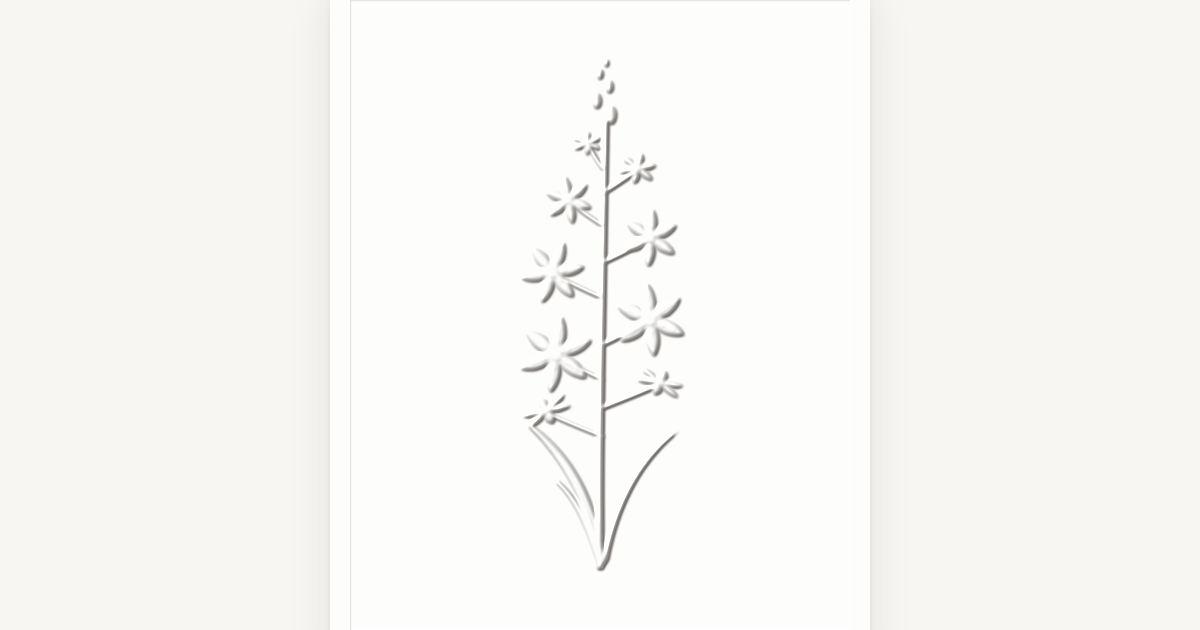
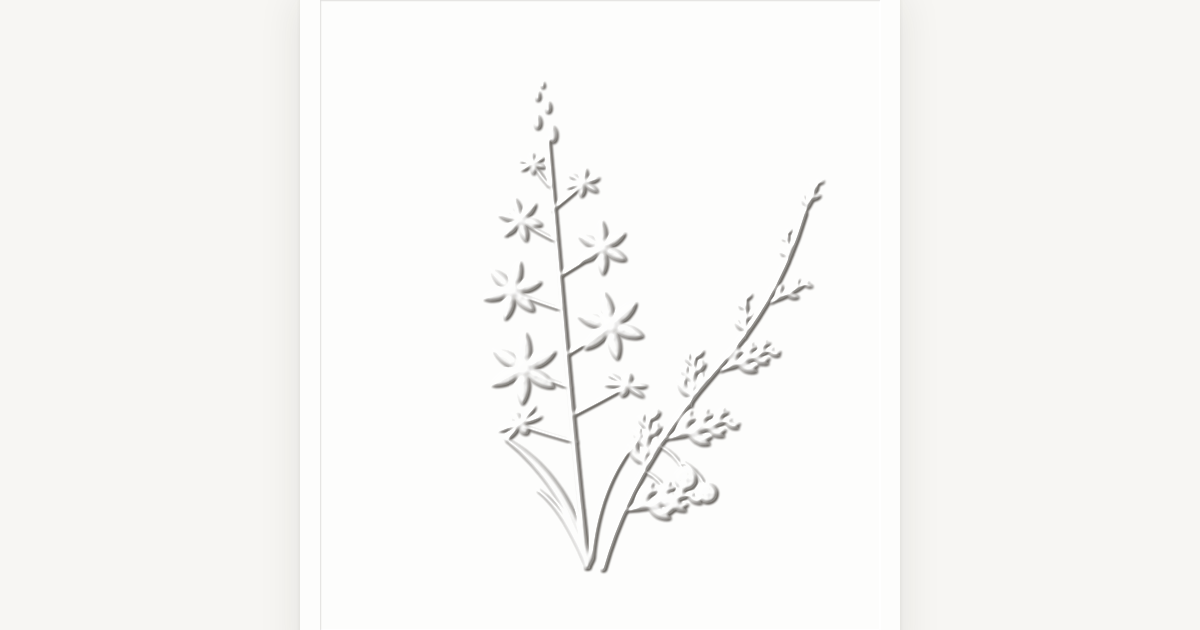
청첩장 업데이트: 오프닝 문구, 터치로 건너뛰기, D-day 제거, 아스포델+노송나무 엠블럼
Claude-Session: https://claude.ai/code/session_01Ecuc82NE4iMCAaktfMKLVU

Changed region(s): [[0.4008, 0.1206, 0.6783, 0.9048], [0.6783, 0.3016, 0.7092, 0.3317]]

diff --git a/index.html b/index.html
@@ -57,10 +57,7 @@
   .caption .ko{font-family:var(--ko);font-weight:400;font-size:14.5px;letter-spacing:.12em;top:22px;color:var(--ink)}
   .caption.out span{opacity:0;transform:translateY(4px)}
 
-  #skip{position:fixed;right:18px;bottom:calc(18px + env(safe-area-inset-bottom));z-index:5;
-    font-family:var(--en);font-size:11px;letter-spacing:.35em;color:var(--ink-soft);
-    background:none;border:0;padding:10px 6px 10px 12px;cursor:pointer;transition:opacity .6s}
-  #skip.hide{opacity:0;pointer-events:none}
+  #intro{cursor:pointer;-webkit-user-select:none;user-select:none}
 
   /* ---------- 카드 장면 ---------- */
   #scene{position:fixed;inset:0;z-index:3;overflow:hidden;
@@ -101,7 +98,7 @@
   .shown .content > *:nth-child(10){transition-delay:1.9s}
 
   .eyebrow{font-family:var(--en);font-size:11.5px;letter-spacing:.3em;padding-left:.3em;color:var(--ink);white-space:nowrap}
-  .asphodel{width:auto;height:min(34dvh,250px);margin:3dvh 0 .6dvh}
+  .asphodel{width:auto;height:min(34dvh,250px);max-width:100%;margin:3dvh 0 .6dvh}
   .flower-note{font-family:var(--en-it);font-style:italic;font-size:12px;letter-spacing:.06em;color:var(--ink-soft)}
   .flower-note b{font-family:var(--ko);font-style:normal;font-weight:300;font-size:10.5px;letter-spacing:.14em;margin-left:6px}
   .hair{width:36px;height:1px;background:#d8ccb4;margin:3.4dvh 0}   /* 포인트: 아이보리 골드 */
@@ -309,7 +306,6 @@
     </div>
   </div>
 </div>
-<button id="skip" type="button" aria-label="인트로 건너뛰기">SKIP</button>
 
 <!-- ===== 카드 장면 ===== -->
 <div id="scene" class="grain">
@@ -321,7 +317,7 @@
       <p class="eyebrow">THE WEDDING CELEBRATION</p>
 
       <!-- 아스포델 블라인드 엠보싱 (잉크 없이 종이만 눌러 올린 느낌) -->
-      <svg class="asphodel" viewBox="0 0 200 330" aria-label="아스포델 엠보싱">
+      <svg class="asphodel" viewBox="0 0 200 330" aria-label="아스포델과 노송나무 엠보싱">
         <defs>
           <!-- 조각식(스컬프티드) 엠보싱: 높이맵 → 실제 조명 계산 → 밝은 면/그늘만 종이에 얹음 -->
           <filter id="emboss" x="-8%" y="-6%" width="116%" height="112%" color-interpolation-filters="sRGB">
@@ -384,10 +380,6 @@
     <p class="day-sub">JW 메리어트 동대문 스퀘어 서울</p>
     <p class="cal-head">FEBRUARY 2027</p>
     <div class="cal" id="cal"></div>
-    <div class="dday">
-      <p class="dday-num" id="ddayNum"></p>
-      <p class="dday-text" id="ddayText"></p>
-    </div>
     <a class="btn" id="gcal" target="_blank" rel="noopener">캘린더에 추가하기</a>
   </section>
 
@@ -527,16 +519,16 @@
         ⚠ 임시 스케치입니다. 직접 찍은 사진을 따라 그려 이 d 값만 교체하세요.
      ---------------------------------------------------------------- */
   const SHAPES = [
-    { en:'ITAEWON', ko:'이태원, 써스티몽크 언덕',
+    { en:'ITAEWON', ko:'이태원에서 만남을 시작해',
       /* 가로등 · 은행나무 · 수풀 언덕 · 언덕 위 건물 · 옆 건물 루프탑 */
       d:'M20 230 L39.4 230 L39.4 150 C44 146 52 146 58 148 L58 150.5 C52 149.5 45 150.5 40.6 153 L40.6 230 L95 230 L95 190 C84 188 80 170 84 150 C86 128 92 110 96 100 C100 110 106 128 108 150 C112 170 108 188 97 190 L97 230 L106 230 C108 214 114 204 124 202 C126 190 136 184 146 187 C150 176 160 170 170 173 L170 120 L178 110 L232 104 L246 104 L246 168 C252 160 262 158 268 164 C272 154 284 152 290 160 L290 138 L324 138 L324 130 L328 130 L328 176 C332 190 334 206 336 218 L340 230' },
     { en:'SUKI', ko:'추운 겨울날, 수키 합류',
       /* 소파 팔걸이 위에 엎드린 수키 — 귀, 기울인 머리, 앞으로 늘어뜨린 두 앞발 */
       d:'M20 230 L300 230 C296 212 262 194 212 186 C211 198 212 214 210 222 C206 230 196 230 192 224 C189 212 189 192 190 176 C184 174 178 173 172 172 C173 182 172 192 168 199 C162 205 150 203 147 195 C142 184 139 166 137 152 C114 147 84 148 60 160 C44 170 38 200 38 230 C38 200 44 170 60 160 C58 146 68 128 86 120 C104 113 130 104 148 95 C152 88 157 79 163 71 L176 41 L189 67 C198 65 213 66 222 71 L246 61 C243 74 239 84 235 92 C238 104 237 118 229 131 C222 140 216 150 214 162 C213 172 212 180 212 186 C262 194 296 212 300 230 L340 230' },
-    { en:'CAMPUS', ko:'6 YEARS',
+    { en:'CAMPUS', ko:'6년간의 캠퍼스 생활',
       /* 계단식 테라스 · 새 모양 가로등 · 삼각탑(정점의 알바트로스) · 안쪽 면 · 기둥과 역원뿔 */
       d:'M20 230 L40 230 L40 206 L59.4 206 L59.4 152 C55 148 51 149 48 151 C52 146 57 146 60 149 C63 146 68 146 72 151 C69 149 65 148 60.6 152 L60.6 206 L70 206 L70 212 L92 212 L92 218 L110 218 L110 224 L128 224 L128 230 L142 230 L177.6 46 L178.6 40 L175 38.5 L178.8 38 L180 30 L181.2 38 L185 38.5 L181.4 40 L182.4 46 L218 230 L202 230 L180 80 L158 230 L172 230 L172 226 L180 226 L174 209 L179 209 L179 92 L181 92 L181 209 L186 209 L180 226 L188 226 L188 230 L232 230 L232 224 L250 224 L250 218 L268 218 L268 212 L290 212 L290 206 L299.4 206 L299.4 152 C295 148 291 149 288 151 C292 146 297 146 300 149 C303 146 308 146 312 151 C309 149 305 148 300.6 152 L300.6 206 L320 206 L320 230 L340 230' },
-    { en:'DONGDAEMUN', ko:'흥인지문, 그리고 우리의 날',
+    { en:'DONGDAEMUN', ko:'그리고 부부가 됩니다',
       d:'M20 230 L76 230 L76 184 L104 184 L104 170 C88 168 72 164 58 156 C80 156 100 150 116 144 L126 144 L126 132 C112 130 100 126 90 120 C120 118 150 106 180 102 C210 106 240 118 270 120 C260 126 248 130 234 132 L234 144 L244 144 C260 150 280 156 302 156 C288 164 272 168 256 170 L256 184 L284 184 L284 230 L202 230 L202 212 C202 200 192 194 180 194 C168 194 158 200 158 212 L158 230 L340 230' }
   ];
   const ARCH = { x:180, y:214 };   // 흥인지문 홍예(아치) 안쪽 — 여기로 들어갑니다
@@ -675,7 +667,7 @@
   const $ = id => document.getElementById(id);
   const intro = $('intro'), stage = $('stage'), scene = $('scene'), card = $('card');
   const capEl = $('caption'), capEn = $('cap-en'), capKo = $('cap-ko');
-  const dayEl = $('day'), dateEl = $('date'), counter = $('counter'), skipBtn = $('skip');
+  const dayEl = $('day'), dateEl = $('date'), counter = $('counter'), skipBtn = null;
 
   function setDay(n){ dayEl.textContent = 'DAY ' + Math.round(n).toLocaleString('en-US'); }
   async function swapCaption(i){
@@ -704,7 +696,6 @@
   function sizeSheet(){}   /* 카드 종이는 이제 CSS로 처리 */
 
   function showCard(){
-    skipBtn.classList.add('hide');
     intro.style.visibility = 'hidden';
     setClip(Math.hypot(innerWidth, innerHeight) + 50, innerWidth/2, innerHeight/2);
     scene.style.clipPath = scene.style.webkitClipPath = 'none';
@@ -718,7 +709,6 @@
     card.classList.remove('shown'); scene.classList.remove('scroll'); scene.scrollTop = 0;
     intro.style.visibility = 'visible'; stage.style.transform = ''; stage.style.opacity = 1;
     setClip(0, innerWidth/2, innerHeight/2);
-    skipBtn.classList.remove('hide');
     capEn.textContent = SHAPES[0].en; capKo.textContent = SHAPES[0].ko; capEl.classList.add('out');
     counter.style.opacity = 0; setDay(1); dateEl.textContent = '2017. 01. 22'; dateEl.style.transition = 'none'; dateEl.style.opacity = 1;
     WASH.forEach(w => { w.style.opacity = 0; w.removeAttribute('mask'); }); stopSnow(); sukiFace.style.opacity = 0;
@@ -779,7 +769,8 @@
     showCard();
   }
 
-  skipBtn.addEventListener('click', () => { run++; stopSnow(); showCard(); });
+  // 오프닝 그림을 터치하면 바로 본문으로
+  intro.addEventListener('click', () => { if (intro.style.visibility === 'hidden') return; run++; stopSnow(); showCard(); });
   $('replay').addEventListener('click', play);
   addEventListener('resize', sizeSheet);
 
@@ -824,7 +815,50 @@
       h += `<ellipse cx="${x}" cy="${y}" rx="${r*.78}" ry="${r*1.4}" fill-opacity=".7"/>`;
       h += `<path d="M${x} ${y + r*1.1} L${x} ${y - r*1.1}" stroke="#000" stroke-width=".7"/>`;
     });
-    g.innerHTML = h;
+    /* 노송나무(편백) — 신랑 탄생화(12월 31일). 납작하게 부채꼴로 갈라지는 비늘잎 + 동그란 솔방울 */
+    function hinoki(){
+      let o = '';
+      const LOW = .78;
+      o += '<path d="M150 326 C160 290 182 250 214 214 C236 190 252 162 262 128" fill="none" stroke="#000" stroke-width="2.4" stroke-linecap="round"/>';
+      const lobe = (x, y, ang, len, w) => {
+        const ex = x + Math.cos(ang) * len, ey = y + Math.sin(ang) * len;
+        const mx = (x + ex) / 2, my = (y + ey) / 2, nx = -Math.sin(ang) * w, ny = Math.cos(ang) * w;
+        return { ex, ey, d: `M${x.toFixed(1)} ${y.toFixed(1)} Q${(mx + nx).toFixed(1)} ${(my + ny).toFixed(1)} ${ex.toFixed(1)} ${ey.toFixed(1)} Q${(mx - nx).toFixed(1)} ${(my - ny).toFixed(1)} ${x.toFixed(1)} ${y.toFixed(1)} Z` };
+      };
+      // 납작한 잎줄기: 중심축 + 어긋나게 뻗는 납작한 곁가지(끝이 둥근 비늘잎 띠)
+      const strip = (x, y, ang, len, w) => { const L = lobe(x, y, ang, len, w); o += `<path d="${L.d}" fill-opacity="${LOW}"/>`; return L; };
+      const frond = (x, y, ang, len, sub) => {
+        const A = strip(x, y, ang, len, Math.max(2.8, len * 0.12));
+        o += `<path d="M${x.toFixed(1)} ${y.toFixed(1)} L${A.ex.toFixed(1)} ${A.ey.toFixed(1)}" stroke="#000" stroke-width=".7" fill="none"/>`;
+        const n = sub ? 6 : 4;
+        for (let k = 0; k < n; k++){
+          const t = 0.18 + k * (0.72 / (n - 1)), side = k % 2 ? 1 : -1;
+          const bx = x + Math.cos(ang) * len * t, by = y + Math.sin(ang) * len * t;
+          const sl = len * (sub ? 0.46 : 0.4) * (1 - t * 0.55), sa = ang + side * 0.78;
+          const S = strip(bx, by, sa, sl, sl * 0.38);
+          if (sub && sl > 7){                                        // 큰 곁가지엔 한 번 더 갈라짐
+            const cx = bx + Math.cos(sa) * sl * 0.55, cy = by + Math.sin(sa) * sl * 0.55;
+            strip(cx, cy, sa - side * 0.7, sl * 0.5, sl * 0.2);
+          }
+        }
+      };
+      // [가지 시작 x, y, 방향(라디안), 길이, 잔가지 여부]
+      [[162, 294, -0.25, 40, 1], [172, 274, -1.45, 34, 1], [185, 254, -0.3, 38, 1], [199, 236, -1.5, 30, 1],
+       [215, 216, -0.4, 32, 1], [229, 198, -1.55, 24, 0], [243, 178, -0.5, 24, 0], [253, 156, -1.6, 18, 0], [262, 128, -1.15, 20, 0]]
+        .forEach(([x, y, a, l, sub]) => frond(x, y, a, l, sub));
+      // 솔방울: 짧은 꼭지 + 방패 모양 비늘 무늬
+      [[196, 276, 6], [208, 284, 5.4], [188, 289, 4.8]].forEach(([cx, cy, r]) => {
+        o += `<path d="M${cx - 2} ${cy - r} Q${cx - 6} ${cy - r - 8} ${cx - 14} ${cy - r - 12}" stroke="#000" stroke-width="1" fill="none"/>`;
+        o += `<circle cx="${cx}" cy="${cy}" r="${r}" fill-opacity=".86"/>`;
+        o += `<path d="M${cx - r * .75} ${cy} L${cx + r * .75} ${cy} M${cx} ${cy - r * .75} L${cx} ${cy + r * .75}" stroke="#000" stroke-width=".7" fill="none"/>`;
+        o += `<circle cx="${cx}" cy="${cy}" r="${(r * .22).toFixed(2)}"/>`;
+      });
+      return o;
+    }
+    /* 하나의 문장처럼: 아스포델은 살짝 왼쪽으로, 노송나무는 오른쪽으로 — 밑동에서 만남 */
+    const svgEl = g.ownerSVGElement; if (svgEl) svgEl.setAttribute('viewBox', '0 0 300 330');
+    g.innerHTML = `<g transform="translate(142 326) rotate(-6) scale(.96) translate(-100 -326)">${h}</g>`
+      + `<g transform="translate(152 326) scale(1.14) translate(-150 -326)">${hinoki()}</g>`;
   })();
 
   sizeSheet();
@@ -896,10 +930,6 @@
       h += `<div class="${cls.join(' ')}">${d}</div>`;
     }
     $('cal').innerHTML = h;
-    const left = Math.round((wDay - todayUTC) / 86400e3);
-    if (left > 0){ $('ddayNum').textContent = 'D-' + left; $('ddayText').innerHTML = `동주 <span style="color:#c9a77c">♥</span> 신영의 결혼식이 <b>${left}일</b> 남았습니다`; }
-    else if (left === 0){ $('ddayNum').textContent = 'D-DAY'; $('ddayText').innerHTML = '<b>오늘, 저희 결혼합니다</b>'; }
-    else { $('ddayNum').textContent = 'THANK YOU'; $('ddayText').innerHTML = '함께해 주셔서 감사합니다'; }
     const q = new URLSearchParams({ action:'TEMPLATE', text:'신동주 ♥ 김신영 결혼식', dates:'20270221T040000Z/20270221T060000Z',
       location:'JW 메리어트 동대문 스퀘어 서울 (' + CONFIG.address + ')', details:'저희의 시작을 함께해 주세요.\n' + location.href.split('#')[0] });
     $('gcal').href = 'https://calendar.google.com/calendar/render?' + q.toString();
